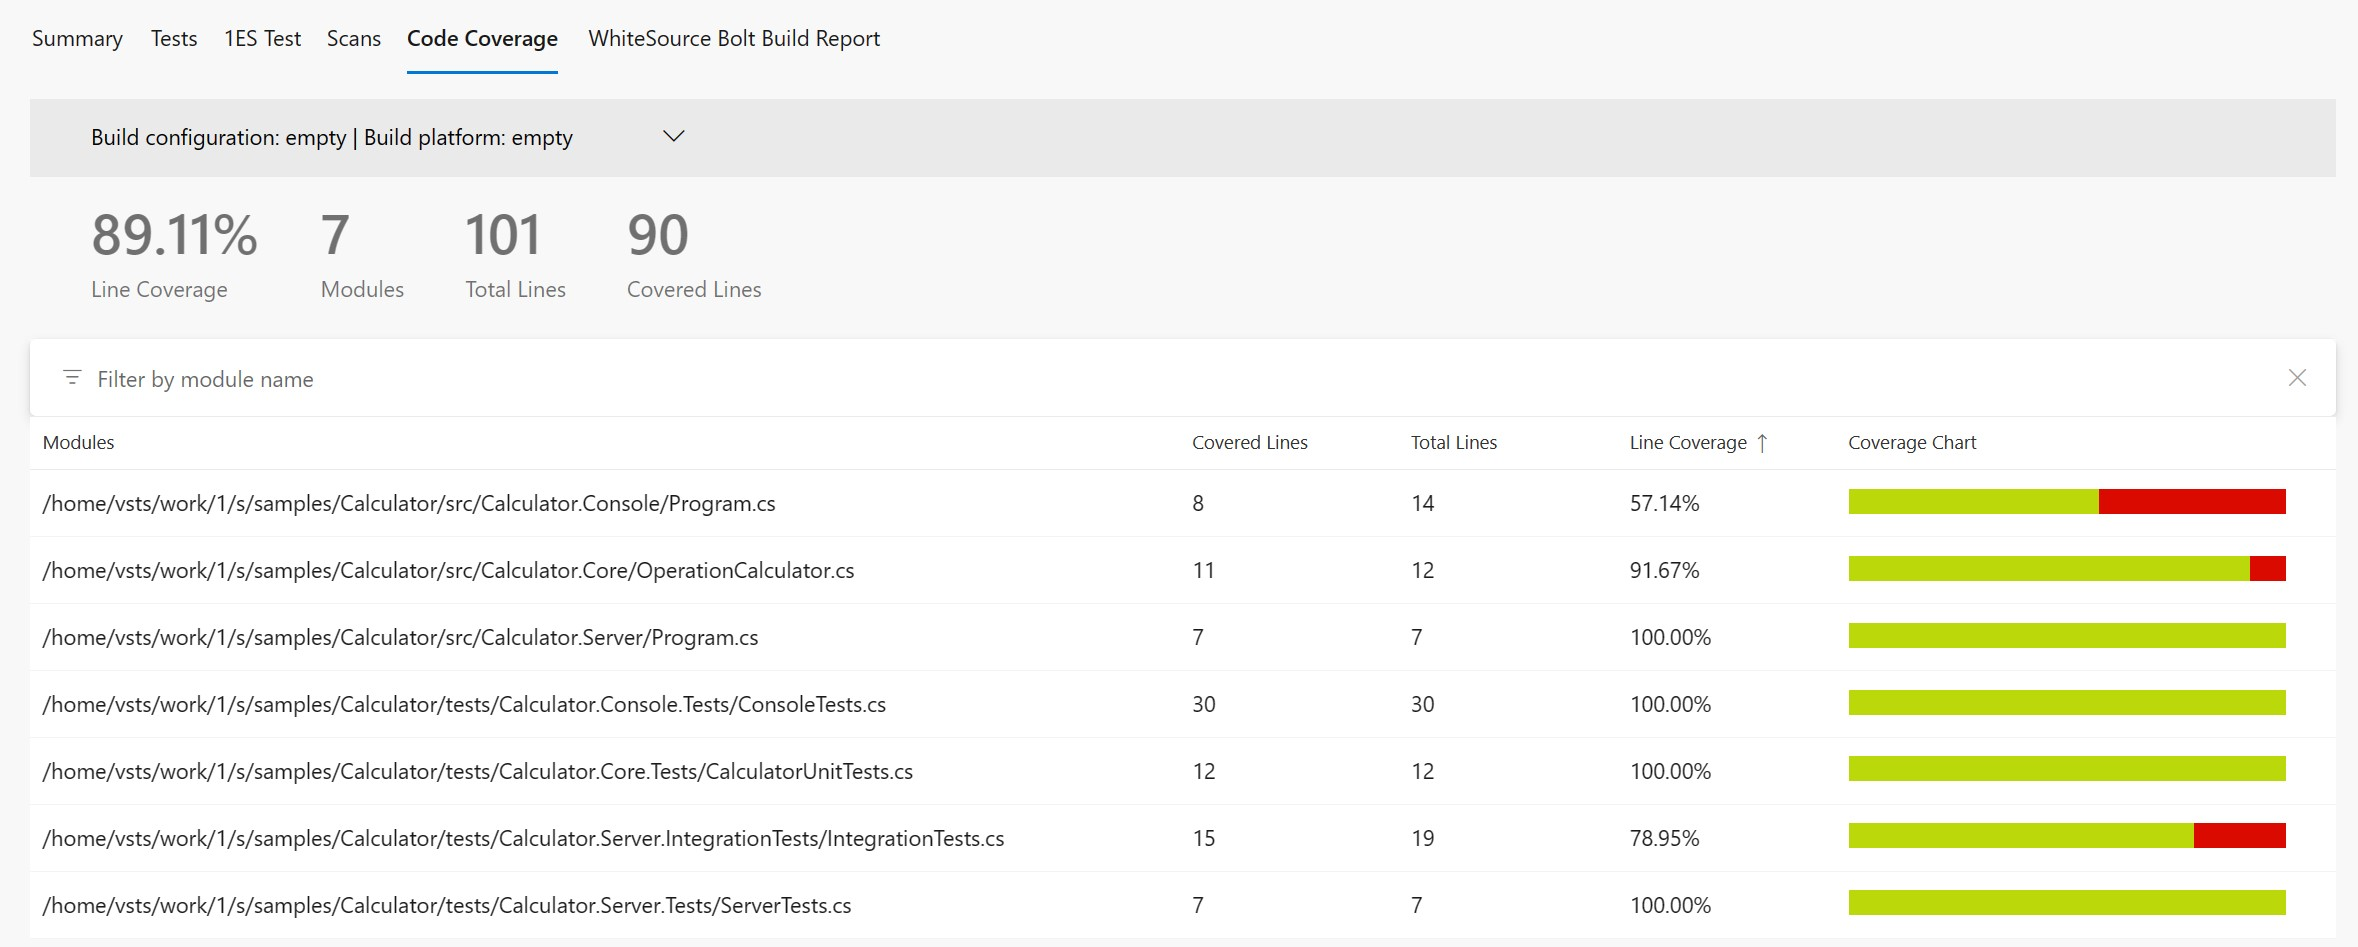
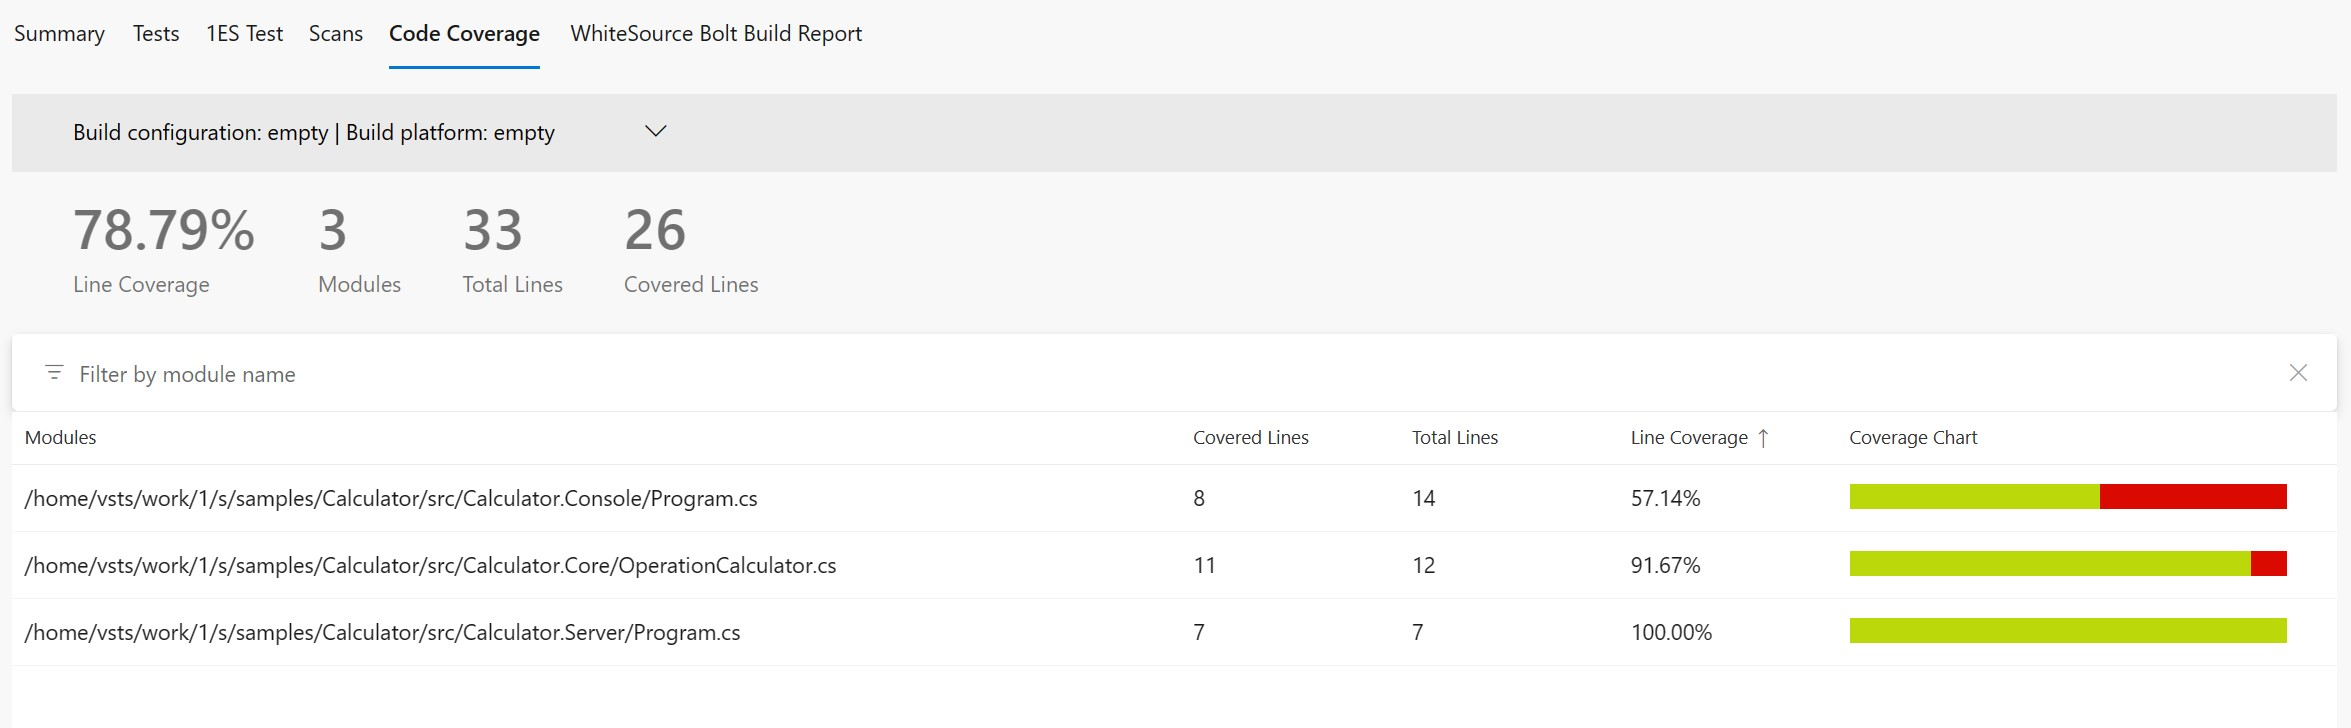
Scenario 19 done

diff --git a/samples/Calculator/scenarios/scenario19/README.md b/samples/Calculator/scenarios/scenario19/README.md
@@ -1,6 +1,35 @@
 # Scenario Description
 
-Collect code coverage for whole solution. You can find here example how to collect coverage for server and tests if they are running in separate processes and server is started before tests execution. `dotnet-coverage` tool is used to collect code coverage for server. At the end code coverage results for server and tests are merged. Default format is binary (`.coverage` extension) which can be opened in Visual Studio Enterprise. In pipelines during merging final coverage report is converted into cobertura format and published.
+Collect code coverage for whole solution. Runsettings are configured to exclude tests projects from coverage report. You can find here example how to collect coverage for server and tests if they are running in separate processes and server is started before tests execution. `dotnet-coverage` tool is used to collect code coverage for server. At the end code coverage results for server and tests are merged. Default format is binary (`.coverage` extension) which can be opened in Visual Studio Enterprise. In pipelines during merging final coverage report is converted into cobertura format and published.
+
+# Configuration
+
+```xml
+<?xml version="1.0" encoding="utf-8"?>
+<RunSettings>
+  <DataCollectionRunSettings>
+    <DataCollectors>
+      <DataCollector friendlyName="Code Coverage" uri="datacollector://Microsoft/CodeCoverage/2.0" assemblyQualifiedName="Microsoft.VisualStudio.Coverage.DynamicCoverageDataCollector, Microsoft.VisualStudio.TraceCollector, Version=11.0.0.0, Culture=neutral, PublicKeyToken=b03f5f7f11d50a3a">
+        <Configuration>
+          <CodeCoverage>
+            <ModulePaths>
+              <Include>
+                <ModulePath>.*calculator\.[^/\\]+\.(dll|exe)$</ModulePath>
+              </Include>
+              <Exclude>
+                <ModulePath>.*tests.dll$</ModulePath>
+              </Exclude>
+            </ModulePaths>
+          </CodeCoverage>
+        </Configuration>
+      </DataCollector>
+    </DataCollectors>
+  </DataCollectionRunSettings>
+</RunSettings>
+
+```
+
+> **_NOTE:_** Remember that any regex used for `<ModulePath>` or `<Source>` is matched for file path not file name.
 
 # Collect code coverage using command line
 
@@ -10,10 +39,10 @@ cd codecoverage/samples/Calculator
 dotnet build
 dotnet tool install -g dotnet-coverage
 cd src/Calculator.Server
-dotnet-coverage collect --output report.coverage --session-id TagScenario18 "dotnet run --no-build" &
+dotnet-coverage collect --output report.coverage --session-id TagScenario19 "dotnet run --no-build" &
 cd ../../
-dotnet test --no-build --collect "Code Coverage" --results-directory "./TestResults/"
-dotnet-coverage shutdown TagScenario18
+dotnet test --no-build --settings ./scenarios/scenario19/coverage.runsettings "Code Coverage" --results-directory "./TestResults/"
+dotnet-coverage shutdown TagScenario19
 dotnet-coverage merge -r --output merged.coverage "./TestResults/*.coverage" ./src/Calculator.Server/report.coverage
 ```
 
@@ -37,13 +66,13 @@ To generate summary report `.coverage` report needs to be converted to `cobertur
     - name: Install dotnet-coverage
       run: dotnet tool install -g dotnet-coverage
     - name: Start server
-      run: dotnet-coverage collect --output report.coverage --session-id TagScenario18 "dotnet run --no-build" &
+      run: dotnet-coverage collect --output report.coverage --session-id TagScenario19 "dotnet run --no-build" &
       working-directory: ./samples/Calculator/src/Calculator.Server
     - name: Run tests
-      run: dotnet test --collect "Code Coverage" --no-build --verbosity normal --results-directory ./TestResults/
+      run: dotnet test --settings ./scenarios/scenario19/coverage.runsettings --no-build --verbosity normal --results-directory ./TestResults/
       working-directory: ./samples/Calculator
     - name: Stop server
-      run: dotnet-coverage shutdown TagScenario18
+      run: dotnet-coverage shutdown TagScenario19
     - name: Merge coverage reports
       run: dotnet-coverage merge -r -f cobertura -o $GITHUB_WORKSPACE/report.cobertura.xml "./TestResults/*.coverage" src/Calculator.Server/report.coverage
       working-directory: ./samples/Calculator
@@ -62,9 +91,9 @@ To generate summary report `.coverage` report needs to be converted to `cobertur
         path: '${{ github.workspace }}/report.cobertura.xml'
 ```
 
-[Full source example](../../../../.github/workflows/Calculator_Scenario18.yml)
+[Full source example](../../../../.github/workflows/Calculator_Scenario19.yml)
 
-[Run example](../../../../../../actions/workflows/Calculator_Scenario18.yml)
+[Run example](../../../../../../actions/workflows/Calculator_Scenario19.yml)
 
 # Collect code coverage inside Azure DevOps Pipelines
 
@@ -93,13 +122,13 @@ steps:
 - task: Bash@3
   inputs:
     targetType: 'inline'
-    script: 'dotnet-coverage collect --output $(Agent.TempDirectory)/server.coverage --session-id TagScenario18 "dotnet run --project $(projectPath) --no-build" &'
+    script: 'dotnet-coverage collect --output $(Agent.TempDirectory)/server.coverage --session-id TagScenario19 "dotnet run --project $(projectPath) --no-build" &'
   displayName: 'start server under coverage'
 
 - task: DotNetCoreCLI@2
   inputs:
     command: 'test'
-    arguments: '--no-build --configuration $(buildConfiguration) --collect "Code Coverage" --logger trx --results-directory $(Agent.TempDirectory)'
+    arguments: '--no-build --configuration $(buildConfiguration) --settings samples/Calculator/scenarios/scenario19/coverage.runsettings --logger trx --results-directory $(Agent.TempDirectory)'
     publishTestResults: false
     projects: '$(solutionPath)' # this is specific to example - in most cases not needed
   displayName: 'execute tests'
@@ -107,7 +136,7 @@ steps:
 - task: Bash@3
   inputs:
     targetType: 'inline'
-    script: 'dotnet-coverage shutdown TagScenario18'
+    script: 'dotnet-coverage shutdown TagScenario19'
   displayName: 'stop server'
 
 - task: Bash@3
